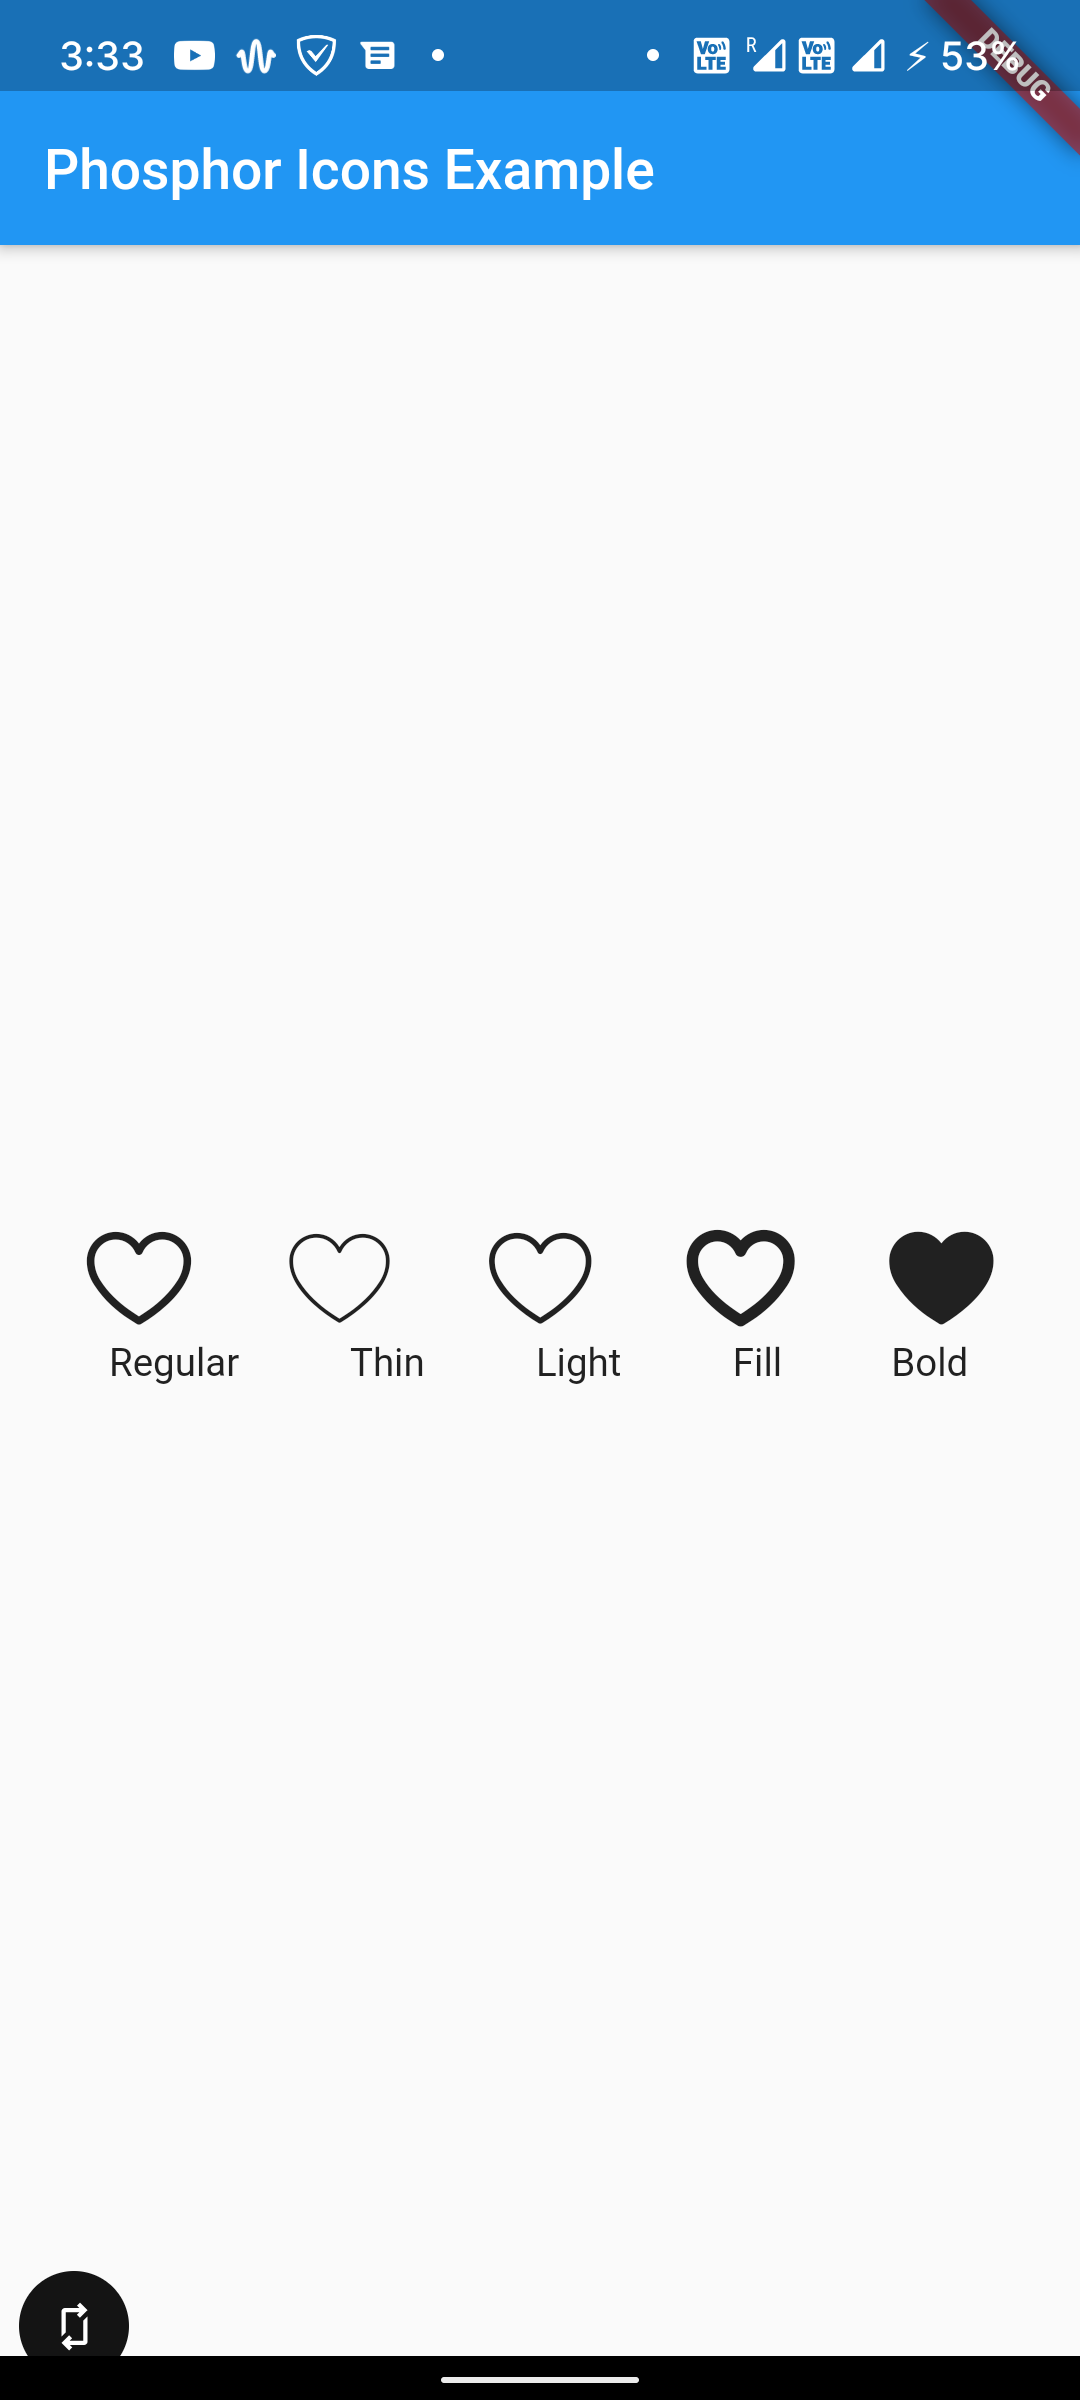
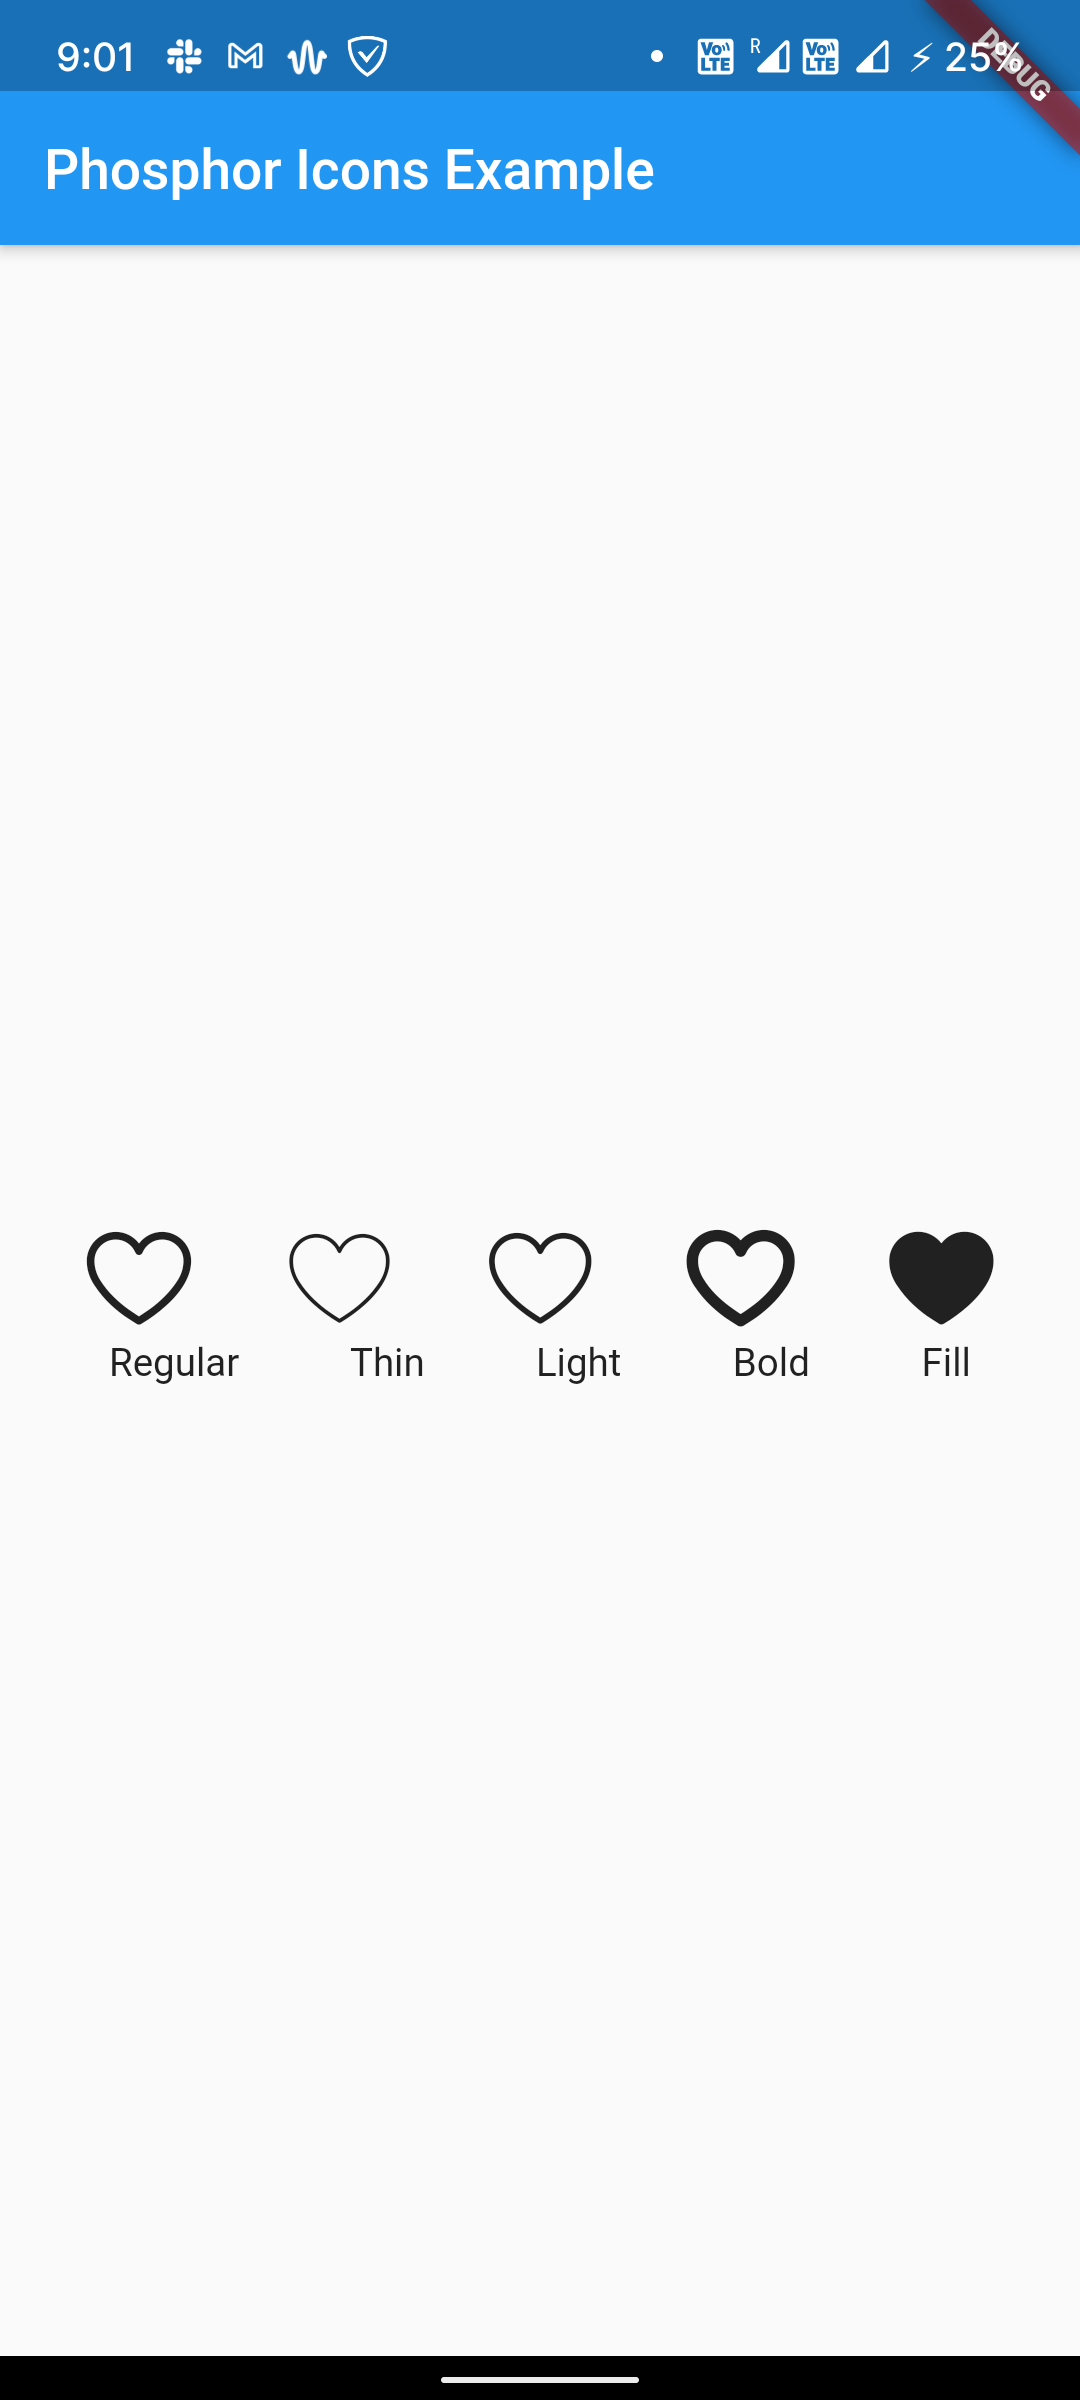
update example & readme

diff --git a/example/lib/main.dart b/example/lib/main.dart
@@ -72,10 +72,10 @@ class Home extends StatelessWidget {
                     "Light",
                   ),
                   Text(
-                    "Fill",
+                    "Bold",
                   ),
                   Text(
-                    "Bold",
+                    "Fill",
                   ),
                 ],
               ),

diff --git a/README.md b/README.md
@@ -1,4 +1,4 @@
-<img src="/meta/phosphor-mark-tight-yellow.png" width="128" align="right" />
+<img src="https://github.com/afkcodes/flutter_phosphor_icons/blob/master/meta/phosphor-mark-tight-yellow.png" width="128" align="right" />
 
 # Flutter Phosphor Icons
 
@@ -18,7 +18,7 @@ Now available for flutter.
 
 ```dart
 // Import the package
-import 'package:flutter_phosphor_icons/phosphor_icons.dart';
+import 'package:flutter_phosphor_icons/flutter_phosphor_icons.dart';
 
 // Use the icons from the package
     Container(
@@ -51,8 +51,15 @@ import 'package:flutter_phosphor_icons/phosphor_icons.dart';
 ```
 
 ## Screenshot
-![Screenshot](https://github.com/afkcodes/flutter_phosphor_icons/blob/master/meta/screen.png)
 
+<img src="https://github.com/afkcodes/flutter_phosphor_icons/blob/master/meta/screen.png" width="300" height="600" />
+
+## Support Me
+
+<a href="https://www.buymeacoffee.com/afkcodes" target="_blank">
+<img src="https://cdn.buymeacoffee.com/buttons/v2/default-blue.png" width="200" height="80"
+alt="Buy Me A Coffee" >
+</a>
 
 ## Related Projects
 
@@ -61,5 +68,7 @@ import 'package:flutter_phosphor_icons/phosphor_icons.dart';
 - [phosphor-icons](https://github.com/phosphor-icons/phosphor-icons) ▲ Phosphor icons for Vanilla JS
 - [phosphor-figma](https://github.com/phosphor-icons/phosphor-figma) ▲ Phosphor icons Figma plugin
 
+
 ## License
+
 MIT © [Phosphor Icons](https://github.com/phosphor-icons)
